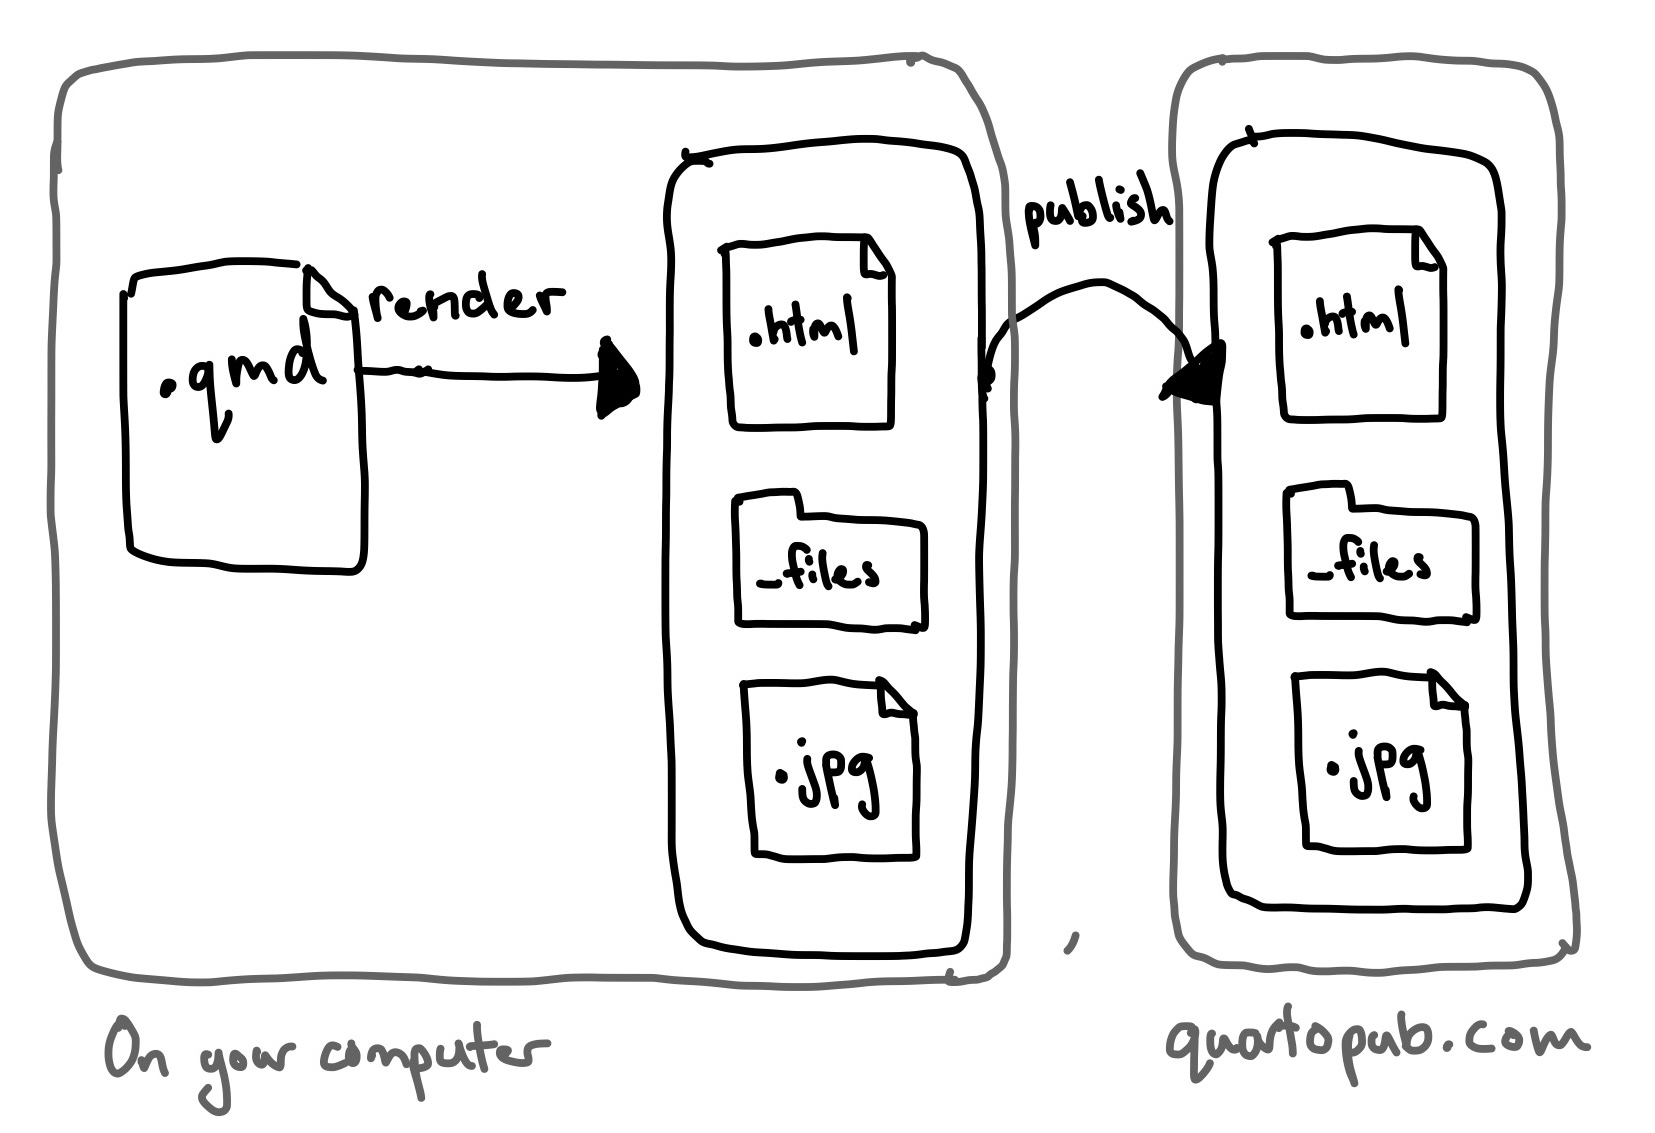
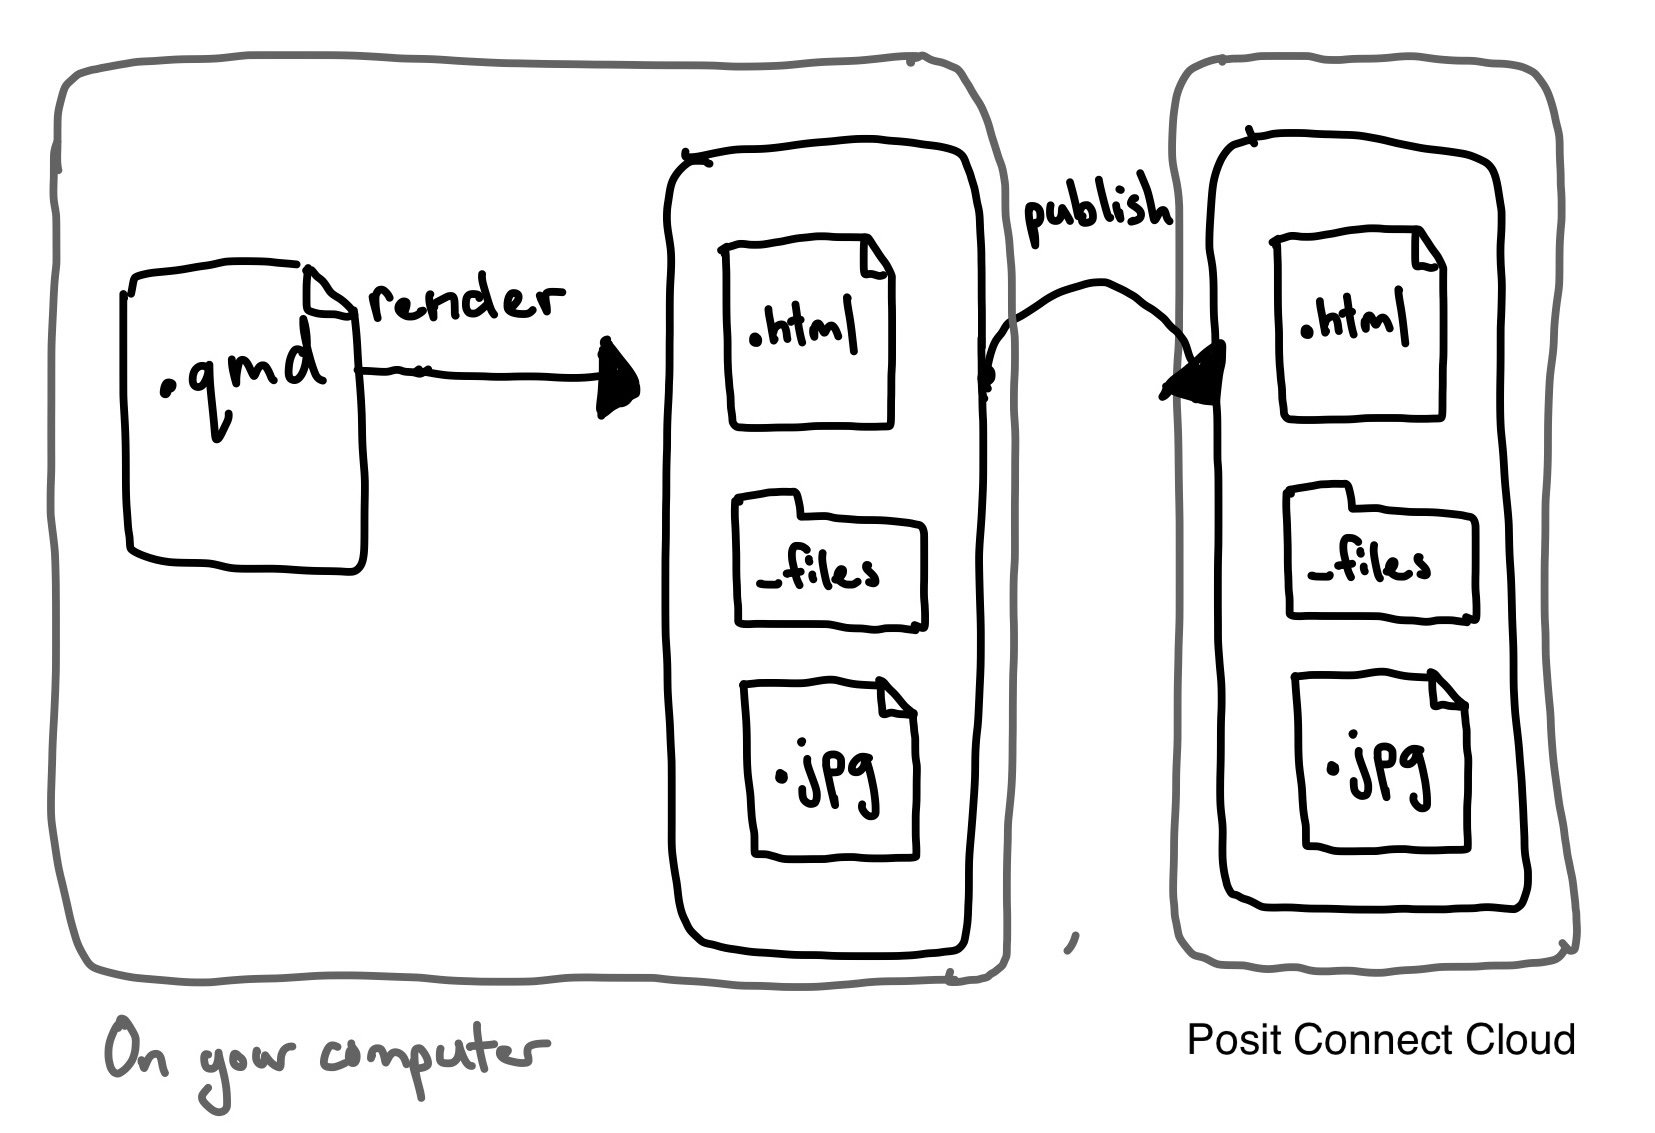
Deploying to gh-pages from @ mine-cetinkaya-rundel/quarto-tdg@7ec85e7f285c749ef51c13f524fe70fe4f8569a1 🚀

Changed region(s): [[0.7088, 0.8959, 0.9553, 0.9576]]

diff --git a/sharing.html b/sharing.html
@@ -374,65 +374,63 @@ pre > code.sourceCode > span > a:first-child::before { text-decoration: underlin
 </div>
 <p>The command will prompt you to select a <strong>Provider</strong>:</p>
 <pre><code>? Provider:
-❯ Quarto Pub
+❯ Posit Connect Cloud
   GitHub Pages
   Posit Connect
   Netlify
   Confluence
   Hugging Face Spaces</code></pre>
-<p>You’ll learn a bit more about the providers later in this chapter, but let’s use Quarto Pub for illustration.</p>
+<p>You’ll learn a bit more about the providers later in this chapter, but let’s use Posit Connect Cloud for illustration.</p>
 <div class="callout callout-style-simple callout-tip">
 <div class="callout-body d-flex">
 <div class="callout-icon-container">
 <i class="callout-icon"></i>
 </div>
 <div class="callout-body-container">
-<p><a href="https://quartopub.com">Quarto Pub</a> is a free service. To follow along, you’ll need to <a href="https://quartopub.com/sign-up"><strong>Sign Up</strong></a> for an account first.</p>
+<p><a href="https://connect.posit.cloud">Posit Connect Cloud</a> has a free tier with unlimited static documents. To follow along, you’ll need to <a href="https://connect.posit.cloud"><strong>Sign Up</strong></a> for an account first.</p>
 </div>
 </div>
 </div>
-<p>Quarto will prompt you to authorize your account when you select a Provider for the first time. This looks different for each provider, but for Quarto Pub, you’ll be asked to authorize your account via your default internet browser:</p>
-<pre><code>? Provider: › Quarto Pub
+<p>Quarto will prompt you to authorize your account when you select a Provider for the first time. This looks different for each provider, but for Posit Connect Cloud, you’ll be asked to authorize your account via your default internet browser:</p>
+<pre><code>? Provider: › Posit Connect Cloud
 ? Authorize (Y/n) ›
-❯ In order to publish to Quarto Pub you need to authorize your account.
-  Please be sure you are logged into the correct Quarto Pub account in your
+❯ In order to publish to Posit Connect Cloud you need to authorize your account.
+  Please be sure you are logged into the correct Posit Connect Cloud account in your
   default web browser, then press Enter or 'Y' to authorize.</code></pre>
-<p>Once authorized, Quarto will ask you to confirm the document title. Then Quarto will render your document one more time, before sending it (and all its required resources) to the Provider. Once done, a browser will open to view your published content, as shown in <a href="#fig-quartopub" class="quarto-xref">Figure&nbsp;<span>6.1</span></a>.</p>
-<div id="fig-quartopub" class="quarto-float quarto-figure quarto-figure-center anchored" alt="Screenshot of the site administration view of a published document on Quarto Pubs.">
+<p>Once authorized, Quarto will render your document one more time, before sending it (and all its required resources) to the Provider. Once done, Quarto will give you a URL to view your published content, as shown in <a href="#fig-posit-connect-cloud" class="quarto-xref">Figure&nbsp;<span>6.1</span></a>.</p>
+<div id="fig-posit-connect-cloud" class="quarto-float quarto-figure quarto-figure-center anchored" alt="Screenshot of the admin view of a published document on Posit Connect Cloud.">
 <figure class="quarto-float quarto-float-fig figure">
-<div aria-describedby="fig-quartopub-caption-0ceaefa1-69ba-4598-a22c-09a6ac19f8ca">
-<img src="images/publishing-quartopub.png" class="img-fluid figure-img" alt="Screenshot of the site administration view of a published document on Quarto Pubs.">
+<div aria-describedby="fig-posit-connect-cloud-caption-0ceaefa1-69ba-4598-a22c-09a6ac19f8ca">
+<img src="images/publishing-posit-connect-cloud.png" class="img-fluid figure-img" alt="Screenshot of the admin view of a published document on Posit Connect Cloud.">
 </div>
-<figcaption class="quarto-float-caption-bottom quarto-float-caption quarto-float-fig" id="fig-quartopub-caption-0ceaefa1-69ba-4598-a22c-09a6ac19f8ca">
-Figure&nbsp;6.1: Quarto will open a browser to view the published document. Share the link labeled “Published at”.
+<figcaption class="quarto-float-caption-bottom quarto-float-caption quarto-float-fig" id="fig-posit-connect-cloud-caption-0ceaefa1-69ba-4598-a22c-09a6ac19f8ca">
+Figure&nbsp;6.1: After publishing, Quarto opens a browser to the content view on Posit Connect Cloud.
 </figcaption>
 </figure>
 </div>
-<div class="callout callout-style-simple callout-tip callout-titled">
-<div class="callout-header d-flex align-content-center">
-<div class="callout-icon-container">
-<i class="callout-icon"></i>
+<p>The URL Quarto returns is for managing your content, not for sharing. To find your shareable URL, navigate to <strong>Settings</strong> &gt; <strong>URL</strong>, as shown in <a href="#fig-posit-connect-cloud-settings" class="quarto-xref">Figure&nbsp;<span>6.2</span></a>.</p>
+<div id="fig-posit-connect-cloud-settings" class="quarto-float quarto-figure quarto-figure-center anchored" alt="Screenshot of the Settings URL page on Posit Connect Cloud showing the Default URL.">
+<figure class="quarto-float quarto-float-fig figure">
+<div aria-describedby="fig-posit-connect-cloud-settings-caption-0ceaefa1-69ba-4598-a22c-09a6ac19f8ca">
+<img src="images/publishing-posit-connect-cloud-settings.png" class="img-fluid figure-img" alt="Screenshot of the Settings URL page on Posit Connect Cloud showing the Default URL.">
 </div>
-<div class="callout-title-container flex-fill">
-<span class="screen-reader-only">Tip</span>Your view depends on whether you are logged into Quarto Pub
+<figcaption class="quarto-float-caption-bottom quarto-float-caption quarto-float-fig" id="fig-posit-connect-cloud-settings-caption-0ceaefa1-69ba-4598-a22c-09a6ac19f8ca">
+Figure&nbsp;6.2: The Settings &gt; URL page shows the Default URL for sharing your content.
+</figcaption>
+</figure>
 </div>
-</div>
-<div class="callout-body-container callout-body">
-<p>If you aren’t logged in to Quarto Pubs your browser will open to the public URL, rather than the site administration view shown in <a href="#fig-quartopub" class="quarto-xref">Figure&nbsp;<span>6.1</span></a>.</p>
-</div>
-</div>
-<p>Pages published on Quarto Pub have public URLs of the form: <code>{ username }.quarto.pub/{ document_title }/</code>. You can share the URL and anyone can view your rendered content.</p>
+<p>Shareable URLs end in <code>.share.connect.posit.cloud</code>. By default, URLs use an auto-generated identifier, but you can customize them to something memorable like <code>cwickham-document.share.connect.posit.cloud</code>. Share the URL and anyone can view your rendered content.</p>
 </section>
 <section id="sec-publishing-process" class="level2" data-number="6.2">
 <h2 data-number="6.2" class="anchored" data-anchor-id="sec-publishing-process"><span class="header-section-number">6.2</span> The publishing process</h2>
-<p>The <code>quarto publish</code> command relies on local rendering — that is, your Quarto documents are rendered locally on your computer using your local installation of the Quarto CLI. Only the output files are then transferred to the publishing provider. In <a href="#fig-pub-process" class="quarto-xref">Figure&nbsp;<span>6.2</span></a> we illustrate this as two separate steps—render then publish— but they both occur when you run the <code>quarto publish</code> command.</p>
-<div id="fig-pub-process" class="quarto-float quarto-figure quarto-figure-center anchored" alt="A diagram of the publishing process. An arrow labeled Render points from a file with extension .qmd to a collection of files including one with extension .html, a folder labelled _files/ and a file with extension .jpg. An arrow labelled publish points from this collection of files to the same collection of files on quartopub.com.">
+<p>The <code>quarto publish</code> command relies on local rendering — that is, your Quarto documents are rendered locally on your computer using your local installation of the Quarto CLI. Only the output files are then transferred to the publishing provider. In <a href="#fig-pub-process" class="quarto-xref">Figure&nbsp;<span>6.3</span></a> we illustrate this as two separate steps—render then publish— but they both occur when you run the <code>quarto publish</code> command.</p>
+<div id="fig-pub-process" class="quarto-float quarto-figure quarto-figure-center anchored" alt="A diagram of the publishing process. An arrow labeled Render points from a file with extension .qmd to a collection of files including one with extension .html, a folder labelled _files/ and a file with extension .jpg. An arrow labelled publish points from this collection of files to the same collection of files on connect.posit.cloud.">
 <figure class="quarto-float quarto-float-fig figure">
 <div aria-describedby="fig-pub-process-caption-0ceaefa1-69ba-4598-a22c-09a6ac19f8ca">
-<img src="images/publishing-process.jpg" class="img-fluid figure-img" alt="A diagram of the publishing process. An arrow labeled Render points from a file with extension .qmd to a collection of files including one with extension .html, a folder labelled _files/ and a file with extension .jpg. An arrow labelled publish points from this collection of files to the same collection of files on quartopub.com.">
+<img src="images/publishing-process.jpg" class="img-fluid figure-img" alt="A diagram of the publishing process. An arrow labeled Render points from a file with extension .qmd to a collection of files including one with extension .html, a folder labelled _files/ and a file with extension .jpg. An arrow labelled publish points from this collection of files to the same collection of files on connect.posit.cloud.">
 </div>
 <figcaption class="quarto-float-caption-bottom quarto-float-caption quarto-float-fig" id="fig-pub-process-caption-0ceaefa1-69ba-4598-a22c-09a6ac19f8ca">
-Figure&nbsp;6.2: The <code>quarto publish</code> process. Input files are rendered locally, then the output files and their dependencies are uploaded to the publishing provider.
+Figure&nbsp;6.3: The <code>quarto publish</code> process. Input files are rendered locally, then the output files and their dependencies are uploaded to the publishing provider.
 </figcaption>
 </figure>
 </div>
@@ -445,10 +443,10 @@ Figure&nbsp;6.2: The <code>quarto publish</code> process. Input files are render
 <div class="code-with-filename-file">
 <pre><strong>_publish.yml</strong></pre>
 </div>
-<div class="code-copy-outer-scaffold"><div class="sourceCode" id="cb4" data-filename="_publish.yml"><pre class="sourceCode yaml code-with-copy"><code class="sourceCode yaml"><span id="cb4-1"><a href="#cb4-1" aria-hidden="true" tabindex="-1"></a><span class="kw">-</span><span class="at"> </span><span class="fu">source</span><span class="kw">:</span><span class="at"> hello.qmd</span></span>
-<span id="cb4-2"><a href="#cb4-2" aria-hidden="true" tabindex="-1"></a><span class="at">  </span><span class="fu">quarto-pub</span><span class="kw">:</span></span>
-<span id="cb4-3"><a href="#cb4-3" aria-hidden="true" tabindex="-1"></a><span class="at">    </span><span class="kw">-</span><span class="at"> </span><span class="fu">id</span><span class="kw">:</span><span class="at"> 8f059af6-06e1-4594-b7b0-252dab8c0d9e</span></span>
-<span id="cb4-4"><a href="#cb4-4" aria-hidden="true" tabindex="-1"></a><span class="at">      </span><span class="fu">url</span><span class="kw">:</span><span class="at"> </span><span class="st">'https://quartopub-test.quarto.pub/test'</span></span></code></pre></div><button title="Copy to Clipboard" class="code-copy-button"><i class="bi"></i></button></div>
+<div class="code-copy-outer-scaffold"><div class="sourceCode" id="cb4" data-filename="_publish.yml"><pre class="sourceCode yaml code-with-copy"><code class="sourceCode yaml"><span id="cb4-1"><a href="#cb4-1" aria-hidden="true" tabindex="-1"></a><span class="kw">-</span><span class="at"> </span><span class="fu">source</span><span class="kw">:</span><span class="at"> document.qmd</span></span>
+<span id="cb4-2"><a href="#cb4-2" aria-hidden="true" tabindex="-1"></a><span class="at">  </span><span class="fu">posit-connect-cloud</span><span class="kw">:</span></span>
+<span id="cb4-3"><a href="#cb4-3" aria-hidden="true" tabindex="-1"></a><span class="at">    </span><span class="kw">-</span><span class="at"> </span><span class="fu">id</span><span class="kw">:</span><span class="at"> 019cd4a5-d2da-c2cf-f7f9-dc78e0748f72</span></span>
+<span id="cb4-4"><a href="#cb4-4" aria-hidden="true" tabindex="-1"></a><span class="at">      </span><span class="fu">url</span><span class="kw">:</span><span class="at"> </span><span class="st">'https://connect.posit.cloud/cwickham/content/019cd4a5-d2da-c2cf-f7f9-dc78e0748f72'</span></span></code></pre></div><button title="Copy to Clipboard" class="code-copy-button"><i class="bi"></i></button></div>
 </div>
 <p>This means when you run <code>quarto publish</code> on a document or project a second time, you’ll be given the option of using the same details—in effect updating your published content.</p>
 <p>The details in <code>_publish.yml</code> aren’t sensitive (there are no authentication details) so you can check it into version control.</p>

diff --git a/websites.html b/websites.html
@@ -460,7 +460,7 @@ Figure&nbsp;14.1: The contents of <code>_site/</code> for a minimal Quarto websi
 </figcaption>
 </figure>
 </div>
-<p>To view your website, you need a webserver to serve up the contents of this directory. This could be a local webserver like the one used for <code>quarto preview</code>, or a remote one like those provided by Quarto Pub or GitHub Pages.</p>
+<p>To view your website, you need a webserver to serve up the contents of this directory. This could be a local webserver like the one used for <code>quarto preview</code>, or a remote one like those provided by Posit Connect Cloud or GitHub Pages.</p>
 <div class="callout callout-style-simple callout-tip callout-titled">
 <div class="callout-header d-flex align-content-center">
 <div class="callout-icon-container">
@@ -512,7 +512,7 @@ Figure&nbsp;14.2: File paths from your project root directly translate to URL pa
 </figcaption>
 </figure>
 </div>
-<p>We use the placeholder <code>{ base }</code> to represent the base URL of your website. When you are previewing locally that will be something like <code>http://localhost:3884</code>, where the number <code>3884</code> may be something else. When you publish your website, the base URL will depend on where you host it. For GitHub Pages it might look something like <code>https://username.github.io/repository-name</code>, and on Quarto Pub something like <code>https://username.quarto.pub/project-name</code>, or you might even have a custom domain <code>https://yourdomain.com</code>.</p>
+<p>We use the placeholder <code>{ base }</code> to represent the base URL of your website. When you are previewing locally that will be something like <code>http://localhost:3884</code>, where the number <code>3884</code> may be something else. When you publish your website, the base URL will depend on where you host it. For GitHub Pages it might look something like <code>https://username.github.io/repository-name</code>, and on Posit Connect Cloud something like <code>https://username-project.share.connect.posit.cloud</code>, or you might even have a custom domain <code>https://yourdomain.com</code>.</p>
 <p>Consider the file <code>about.qmd</code> at the top level of your website project. It will be available at <code>about.html</code> at the top level of your website. If you place <code>last-month.qmd</code> inside a <code>reports/</code> folder in your website project, it will available at <code>reports/last-month.html</code> on your website.</p>
 <p>Index files are special — the <code>index.qmd</code> in any directory becomes the landing page for that directory. So, for example <code>reports/index.qmd</code> defines the page seen by someone navigating to <code>{ base }/reports</code> or <code>{ base }/reports/</code>.</p>
 <p>Files don’t have to be Quarto documents. The CSV file <code>data/sales.csv</code> will be available at <code>{ base }/data/sales.csv</code>. However, only rendered Quarto documents or files that Quarto deems to be necessary are copied into <code>_site/</code>. This means the presence of <code>data/sales.csv</code> isn’t enough for it to be included in the website. It either needs to be referenced in a way Quarto will detect, e.g., linked to from another page (see <a href="#sec-websites-links" class="quarto-xref"><span>Section 14.4.2</span></a>), or be included in the site resources (see <a href="#sec-websites-resources" class="quarto-xref"><span>Section 14.4.6</span></a>).</p>
@@ -2522,7 +2522,7 @@ Figure&nbsp;14.26: The <code>quarto publish</code> process for a website. The we
 </section>
 <section id="providers" class="level3" data-number="14.9.4">
 <h3 data-number="14.9.4" class="anchored" data-anchor-id="providers"><span class="header-section-number">14.9.4</span> Providers</h3>
-<p>The <code>quarto publish</code> command supports several publishing providers. The three we think are most useful if you are choosing for yourself are Quarto Pub, GitHub Pages, and Netlify. A brief summary comparing their features is shown in <a href="#tbl-providers" class="quarto-xref">Table&nbsp;<span>14.9</span></a>.</p>
+<p>The <code>quarto publish</code> command supports several publishing providers. The three we think are most useful if you are choosing for yourself are Posit Connect Cloud, GitHub Pages, and Netlify. A brief summary comparing their features is shown in <a href="#tbl-providers" class="quarto-xref">Table&nbsp;<span>14.9</span></a>.</p>
 <div id="tbl-providers" class="quarto-float quarto-figure quarto-figure-center anchored">
 <figure class="quarto-float quarto-float-tbl figure">
 <figcaption class="quarto-float-caption-top quarto-float-caption quarto-float-tbl" id="tbl-providers-caption-0ceaefa1-69ba-4598-a22c-09a6ac19f8ca">
@@ -2546,10 +2546,10 @@ Table&nbsp;14.9: A comparison of three popular publishing providers
 </thead>
 <tbody>
 <tr class="odd">
-<td>Quarto Pub</td>
+<td>Posit Connect Cloud</td>
 <td>✔</td>
-<td>✖</td>
-<td>✖</td>
+<td>Paid plans</td>
+<td>Paid plans</td>
 </tr>
 <tr class="even">
 <td>GitHub</td>
@@ -2573,7 +2573,7 @@ Table&nbsp;14.9: A comparison of three popular publishing providers
 <div class="code-with-filename-file">
 <pre><strong>Terminal</strong></pre>
 </div>
-<div class="code-copy-outer-scaffold"><div class="sourceCode" id="cb79" data-filename="Terminal"><pre class="sourceCode bash code-with-copy"><code class="sourceCode bash"><span id="cb79-1"><a href="#cb79-1" aria-hidden="true" tabindex="-1"></a><span class="ex">quarto</span> publish quarto-pub</span></code></pre></div><button title="Copy to Clipboard" class="code-copy-button"><i class="bi"></i></button></div>
+<div class="code-copy-outer-scaffold"><div class="sourceCode" id="cb79" data-filename="Terminal"><pre class="sourceCode bash code-with-copy"><code class="sourceCode bash"><span id="cb79-1"><a href="#cb79-1" aria-hidden="true" tabindex="-1"></a><span class="ex">quarto</span> publish posit-connect-cloud</span></code></pre></div><button title="Copy to Clipboard" class="code-copy-button"><i class="bi"></i></button></div>
 </div>
 <section id="sec-publishing-github" class="level4" data-number="14.9.4.1">
 <h4 data-number="14.9.4.1" class="anchored" data-anchor-id="sec-publishing-github"><span class="header-section-number">14.9.4.1</span> GitHub Pages</h4>
@@ -2585,7 +2585,7 @@ Table&nbsp;14.9: A comparison of three popular publishing providers
 </div>
 <p><a href="https://pages.github.com">GitHub Pages</a> is a hosting service provided by GitHub at the repository level. If you are storing your source on GitHub anyway, it makes sense to also publish via GitHub Pages.</p>
 <p>When you publish, Quarto creates a special <code>gh-pages</code> branch, renders your document or project to this branch, and pushes this branch to GitHub. This branch is then processed on GitHub’s side, making it available at a URL of the form <code>{ user }.github.io/repo-name</code>.</p>
-<p>If you use GitHub through one of its “Free” plans you can only use GitHub Pages on public repositories. If you’d prefer your source documents weren’t available publicly you’ll either need to upgrade your GitHub plan, or use something like Netlify or Quarto Pub instead.</p>
+<p>If you use GitHub through one of its “Free” plans you can only use GitHub Pages on public repositories. If you’d prefer your source documents weren’t available publicly you’ll either need to upgrade your GitHub plan, or use something like Netlify or Posit Connect Cloud instead.</p>
 <p>You can read more about publishing to GitHub with <code>quarto publish</code> on the <a href="https://quarto.org/docs/publishing/github-pages.html#publish-command">GitHub Pages page</a> in the Quarto documentation.</p>
 <p>An alternative to using <code>quarto publish</code> is to commit your rendered document or site to your repository in a <code>docs/</code> folder and set GitHub Pages to publish from there. You can read more about this workflow at <a href="https://quarto.org/docs/publishing/github-pages.html#render-to-docs">Render to <code>docs</code></a> on the Quarto documentation website.</p>
 </section>
